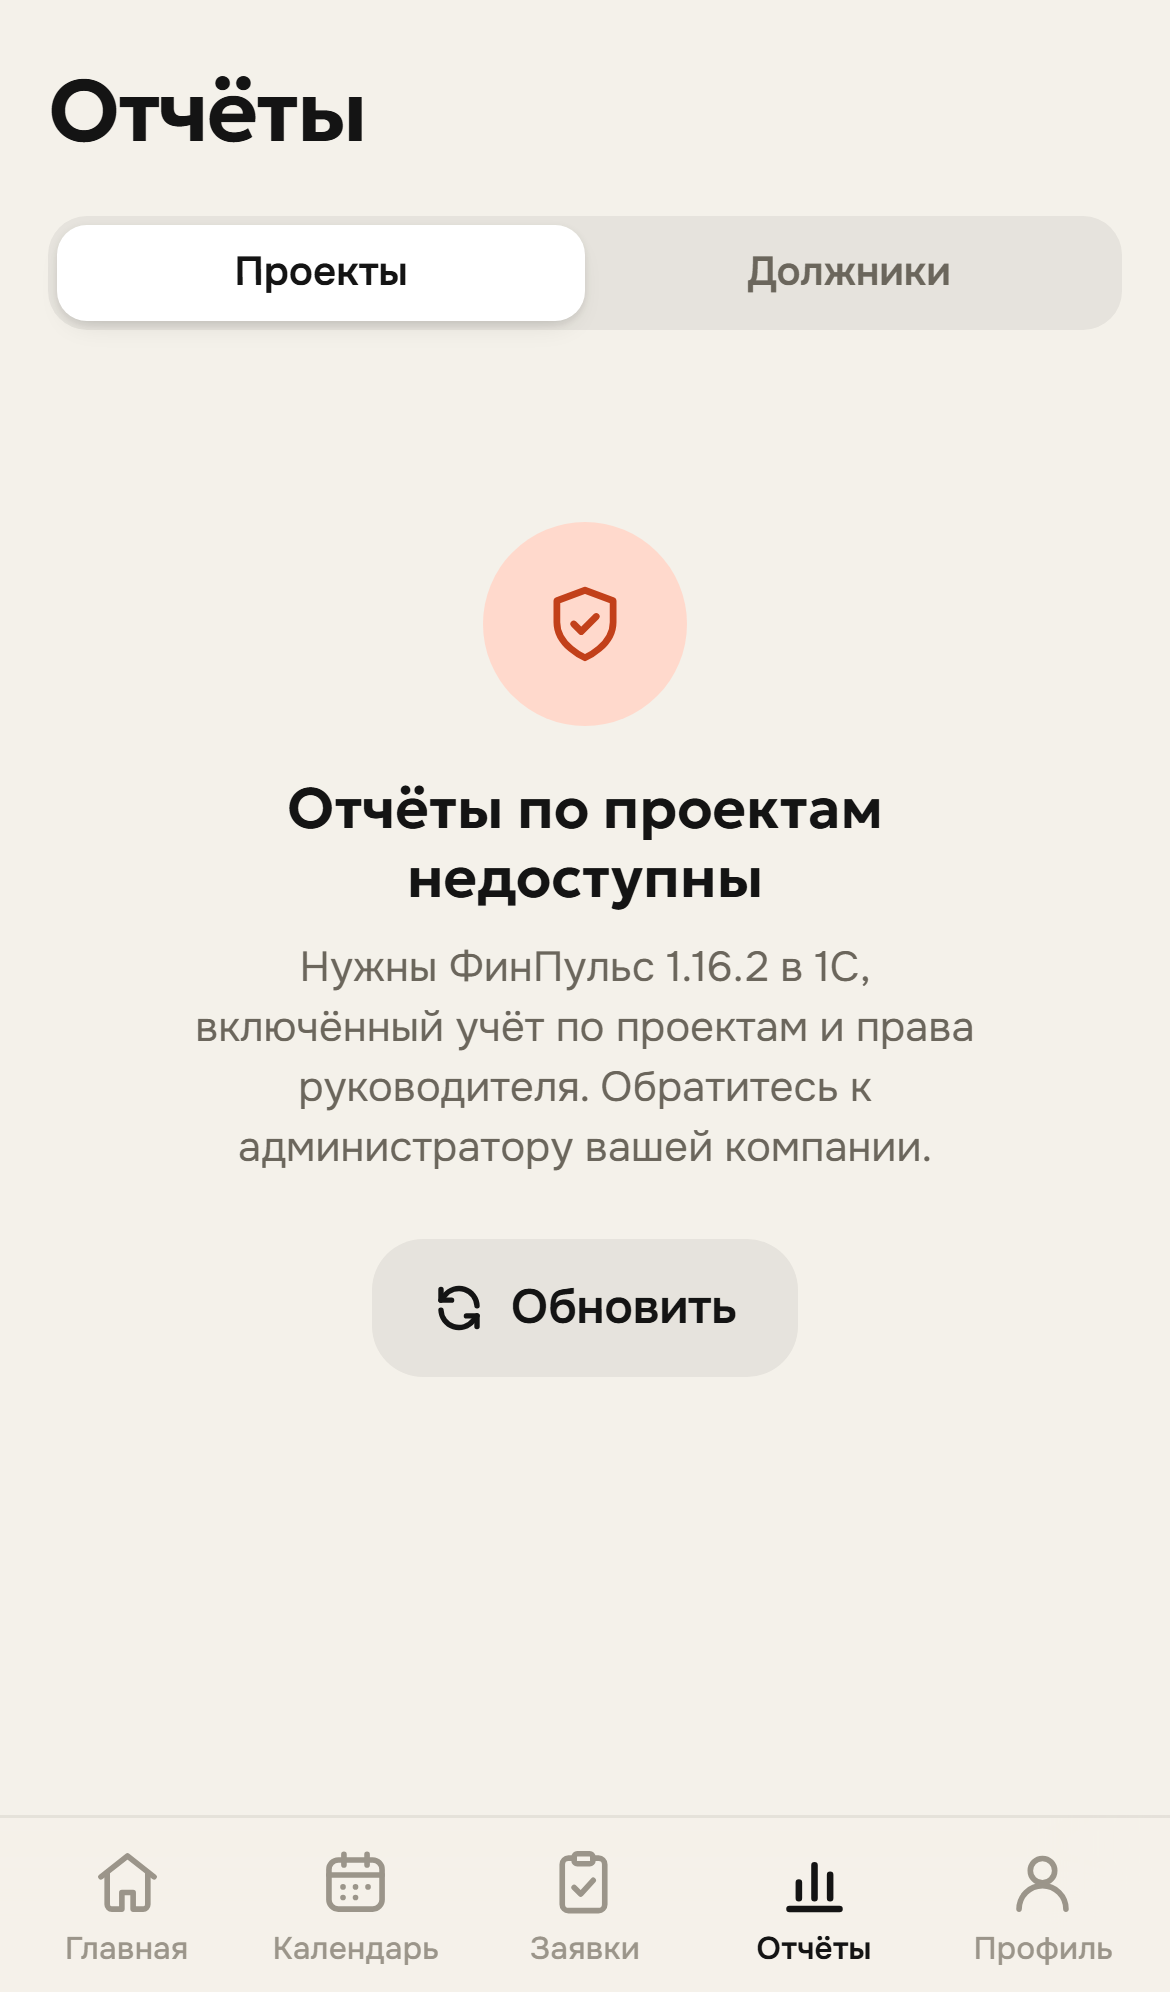
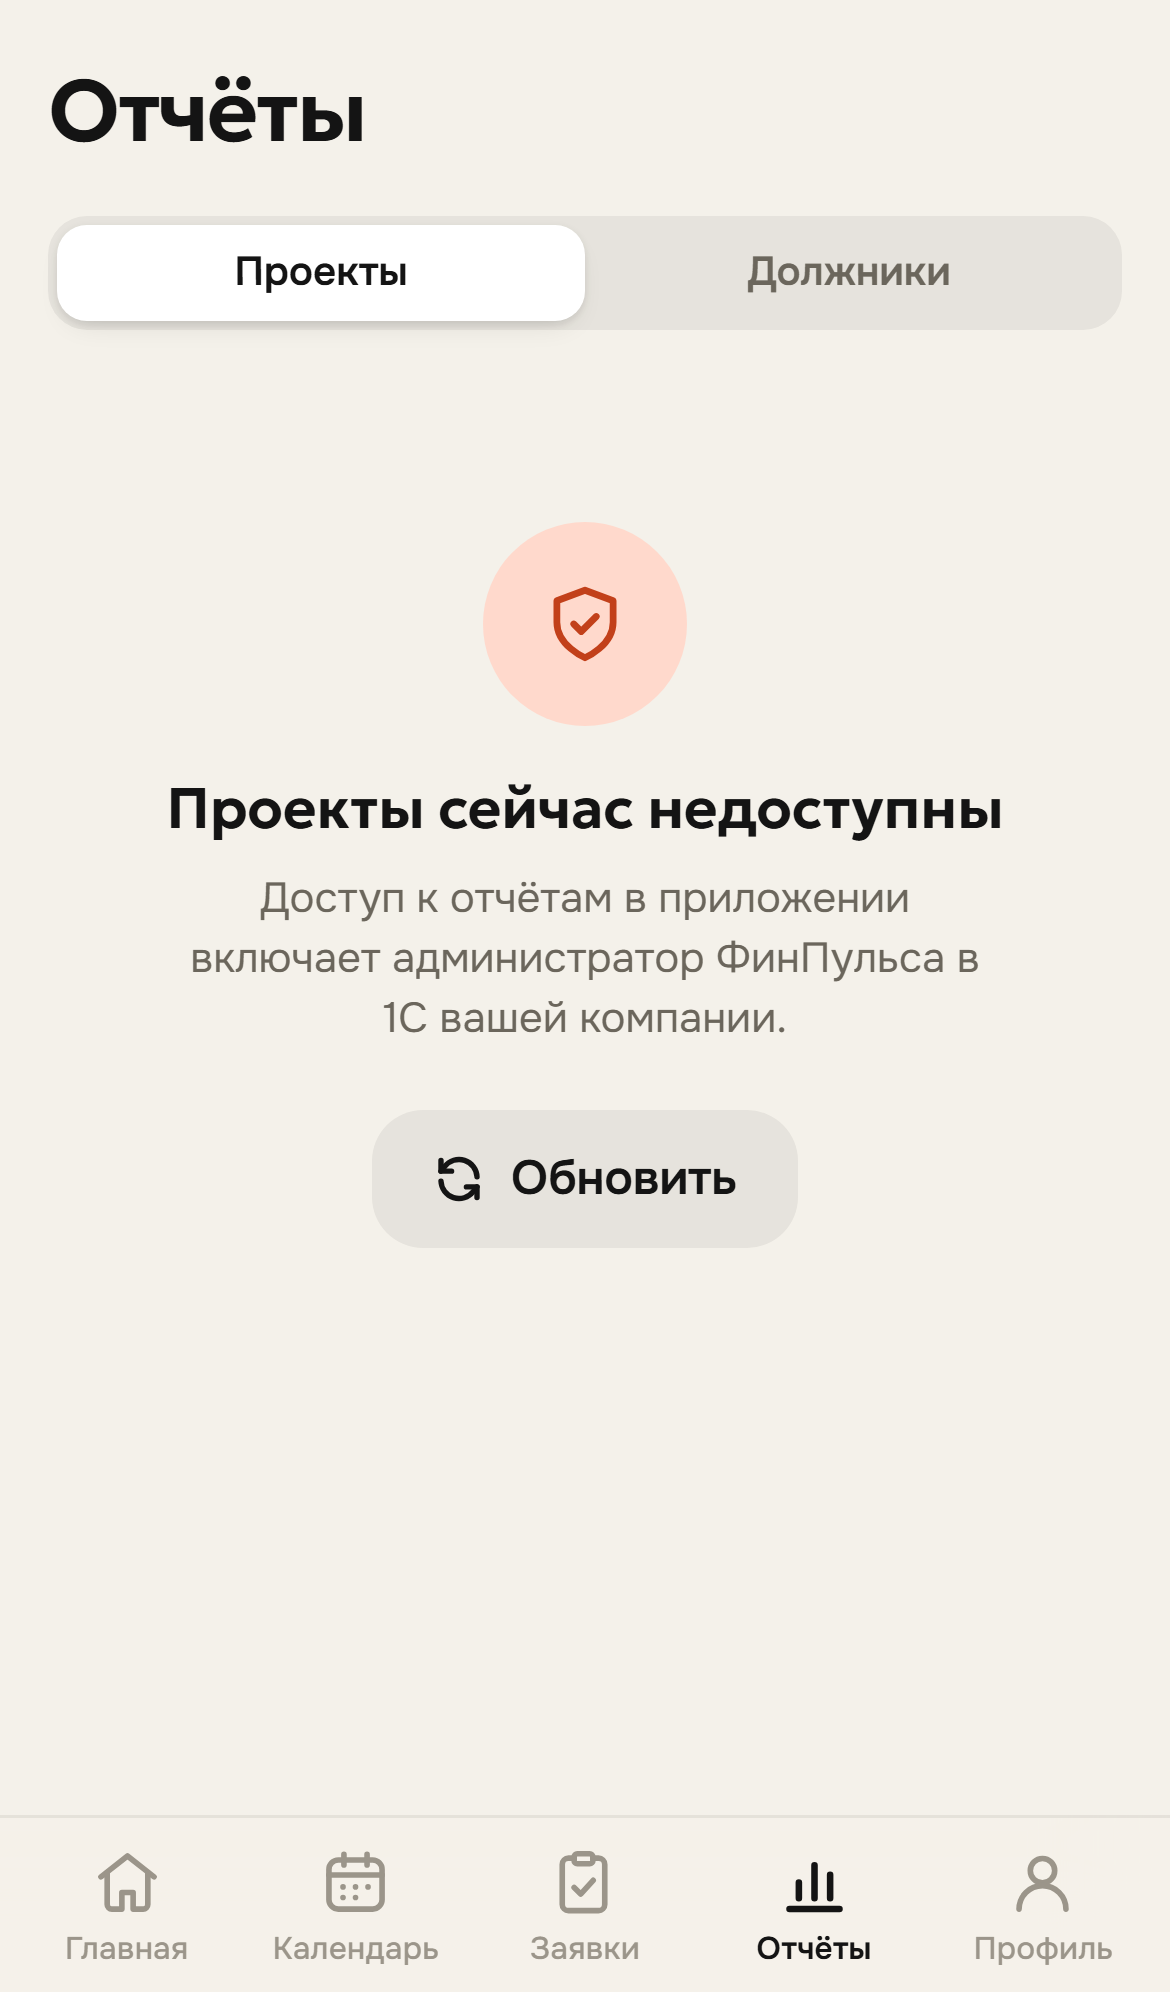
1.2.0: «отчёт сейчас недоступен» без названия роли, для всех отчётов; 501 у отчёта из списка — как 403; сбой на карточке проекта — «Не удалось открыть проект» с «Повторить» и «К списку проектов»

Changed region(s): [[0.1538, 0.3735, 0.8615, 0.6847]]

diff --git a/docs/js/screens.js b/docs/js/screens.js
@@ -1956,9 +1956,12 @@ function reportsHead(list, tab, chip = '') {
 const reportsStub = () => laterView({ key: 'later:reports', tab: 'reports', title: 'Отчёты' });
 
 // 403 report_unavailable — отчёт этому пользователю больше недоступен (выключили в 1С, сняли права, база без общего
-// прохода). Перечитываем /orgs: пункт пропал из списка — вкладка перестраивается; остался — честно пишем «недоступно».
+// прохода); 501 not_implemented у отчёта — то же самое от базы, которая отчётов ещё не объявила. Перечитываем /orgs:
+// пункт пропал из списка — вкладка перестраивается; остался — честно пишем «недоступно». Причину и роль не называем:
+// отказ один на все случаи, доступ включает администратор ФинПульса в 1С.
+const REPORT_GONE = { dds: 'ДДС сейчас недоступен', plan: 'План-факт сейчас недоступен', debtors: 'Должники сейчас недоступны', projects: 'Проекты сейчас недоступны' };
 async function reportGone(e, org, tab) {
-  if (!(e instanceof ApiError) || e.code !== 'report_unavailable') throw e;
+  if (!(e instanceof ApiError) || (e.code !== 'report_unavailable' && e.code !== 'not_implemented')) throw e;
   invalidate();
   let list = [];
   try {
@@ -1975,10 +1978,8 @@ async function reportGone(e, org, tab) {
       ${reportsHead(list, tab)}
       <div class="empty err-state" data-error="report_unavailable" role="alert">
         <span class="empty-ic err">${I.shield}</span>
-        <b>${tab === 'projects' ? 'Отчёты по проектам недоступны' : 'Отчёт недоступен'}</b>
-        <span>${tab === 'projects'
-    ? 'Нужны ФинПульс 1.16.2 в 1С, включённый учёт по проектам и права руководителя. Обратитесь к администратору вашей компании.'
-    : 'Отчёт выключен в 1С или у вас нет на него прав. Обратитесь к администратору вашей компании.'}</span>
+        <b>${REPORT_GONE[tab] || 'Отчёт сейчас недоступен'}</b>
+        <span>Доступ к отчётам в приложении включает администратор ФинПульса в 1С вашей компании.</span>
         <button class="btn btn-secondary" data-act="retry">${I.refresh}Обновить</button>
       </div>
     </div>`,
@@ -2295,6 +2296,15 @@ async function projectCard(org, id) {
       return {
         key: `prj:${id}`, depth: 2, title: 'Проект',
         html: `${topbar('Проект', '#/reports/projects')}<div class="scroll has-topbar"><div class="empty" data-prj-missing><span class="empty-ic">${I.info}</span><b>Проект не найден</b><span>Возможно, его удалили в 1С или он относится к другой организации</span><button class="btn btn-secondary" data-go="#/reports/projects">К списку проектов</button></div></div>`,
+      };
+    }
+    // Учёт не ответил. На бою так приходит и «проекта больше нет»: хостинг базы подменяет 404 своей страницей, до
+    // приложения доходит 503. Поэтому не «нет связи» на весь экран, а два выхода: повторить или вернуться к списку.
+    if (e instanceof ApiError && ['upstream_unavailable', 'server_unavailable', 'server_error', 'timeout'].includes(e.code)) {
+      prjData = null; // если проекта больше нет — список перечитается
+      return {
+        key: `prj:${id}`, depth: 2, title: 'Проект',
+        html: `${topbar('Проект', '#/reports/projects')}<div class="scroll has-topbar"><div class="empty" data-prj-failed="${e.code}" role="alert"><span class="empty-ic">${I.info}</span><b>Не удалось открыть проект</b><span>Учёт компании не ответил, или проекта больше нет. Повторите или вернитесь к списку.</span><div class="prj-fail-btns"><button class="btn btn-primary" data-act="retry">${I.refresh}Повторить</button><button class="btn btn-secondary" data-go="#/reports/projects">К списку проектов</button></div></div></div>`,
       };
     }
     throw e;

diff --git a/docs/css/app.css b/docs/css/app.css
@@ -1138,3 +1138,4 @@ button.period-chip { gap: 4px; }
 [data-project] .rh-who { margin-top: 12px; font: 600 20px/1.2 var(--f-head); letter-spacing: -0.015em; color: var(--ink); }
 [data-project] .rh-purpose { margin-top: 5px; font-size: 14.5px; color: var(--stone); }
 [data-project] .rh-sum { margin-top: 14px; }
+.prj-fail-btns { display: flex; flex-direction: column; gap: 10px; margin-top: 4px; align-items: center; }

diff --git a/spec/api-client.md b/spec/api-client.md
@@ -159,10 +159,11 @@
 
 | Ответ | Экран |
 |---|---|
-| `403 report_unavailable` (база старше 1.16.2, отчёт выключен, нет прав) | приложение перечитывает `/orgs`; отчёта в списке больше нет — вкладка перестраивается (или заглушка); отчёт остался в списке — «Отчёты по проектам недоступны. Нужны ФинПульс 1.16.2 в 1С, включённый учёт по проектам и права руководителя…» + «Обновить» |
+| `403 report_unavailable` (база старше 1.16.2, отчёт выключен, нет прав) и `501 not_implemented` у отчёта из списка | приложение перечитывает `/orgs`; отчёта в списке больше нет — вкладка перестраивается (или заглушка); отчёт остался в списке — «Проекты сейчас недоступны. Доступ к отчётам в приложении включает администратор ФинПульса в 1С вашей компании.» + «Обновить»; для остальных отчётов — то же с их названием. Причину и роль не называем: отказ один на все случаи |
 | `404 not_found` на карточке | «Проект не найден» + «К списку проектов», список перечитывается |
 | `422 validation_error` на периоде | «Период не подошёл: не длиннее трёх лет. Показан текущий год.» |
-| `503`, `504`, нет связи | как у остальных отчётов: текст и «Обновить» |
+| `503`, `504`, `500` на карточке проекта | «Не удалось открыть проект» + «Повторить» и «К списку проектов». На бою так приходит и «проекта больше нет»: хостинг базы подменяет `404` от 1С своей страницей, до приложения доходит `503 source_unavailable` |
+| `503`, `504`, нет связи на списке и остальных отчётах | как раньше: текст и «Обновить» |
 
 **Демо.** `docs/data/projects.json` — ответы 1С в формате API (список и две карточки); у первой организации четыре
 отчёта, у остальных три. Карточки остальных проектов демо собирает из строки списка.
